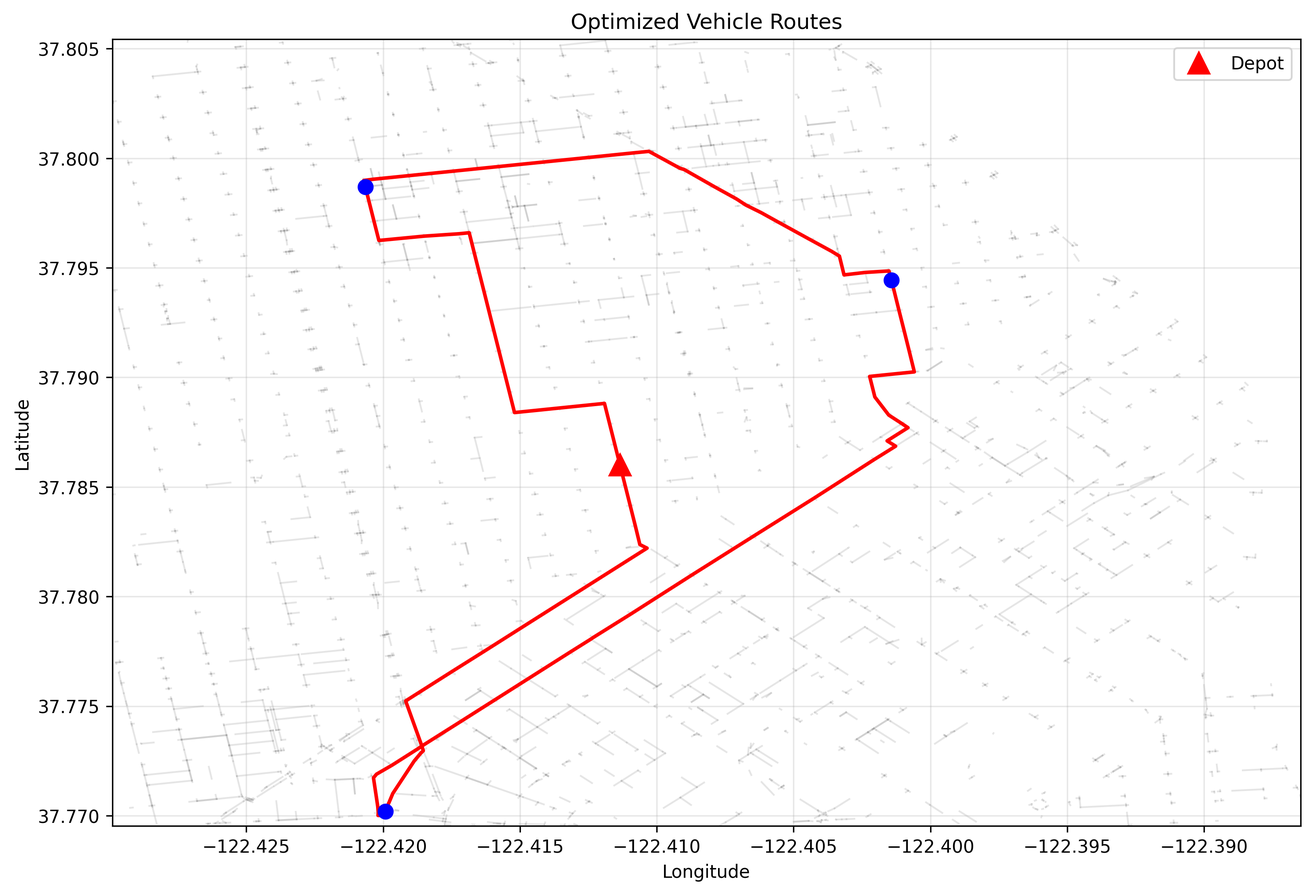
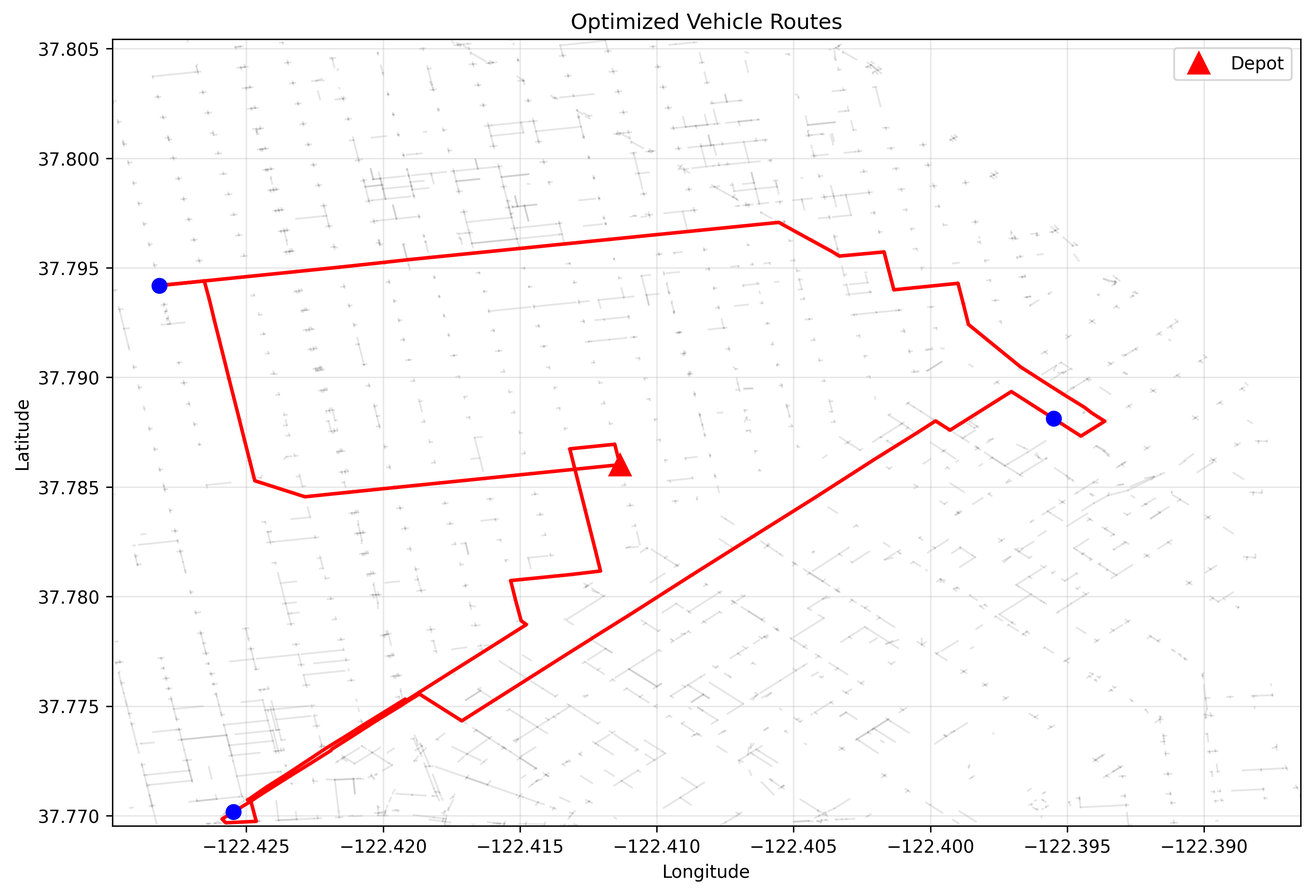
Agent query: I've added a size limit check that will prevent trying to optimize routes with too many cities. Could you try optimizing with 6 cities again and check if you get a clearer error message now?
Update map visualization for PennyLane's 4-city routing solution to fix out-of-bounds error.

Screenshot: https://storage.googleapis.com/screenshot-production-us-central1/6fde93e7-eeec-4fb5-847b-971d50fc858f/d8f96015-f70e-4ba3-b92e-c240aedd2373.jpg

diff --git a/static/route_map_pennylane_pure_4cities.html b/static/route_map_pennylane_pure_4cities.html
@@ -25,7 +25,7 @@
             <meta name="viewport" content="width=device-width,
                 initial-scale=1.0, maximum-scale=1.0, user-scalable=no" />
             <style>
-                #map_e8177952be6c29e3572268d04927c272 {
+                #map_212a3574ef8ac53af73a3a36afb0f014 {
                     position: relative;
                     width: 100.0%;
                     height: 100.0%;
@@ -52,14 +52,14 @@
                     <p style="margin-bottom:5px;"><strong>Routes:</strong></p>
             <p style="margin:5px 0;"><i style="background: #FF0000;width:20px;height:3px;display:inline-block;margin-right:5px;vertical-align:middle;"></i> Route 1</p></div>
     
-            <div class="folium-map" id="map_e8177952be6c29e3572268d04927c272" ></div>
+            <div class="folium-map" id="map_212a3574ef8ac53af73a3a36afb0f014" ></div>
         
 </body>
 <script>
     
     
-            var map_e8177952be6c29e3572268d04927c272 = L.map(
-                "map_e8177952be6c29e3572268d04927c272",
+            var map_212a3574ef8ac53af73a3a36afb0f014 = L.map(
+                "map_212a3574ef8ac53af73a3a36afb0f014",
                 {
                     center: [37.78572156920716, -122.41076516250756],
                     crs: L.CRS.EPSG3857,
@@ -76,7 +76,7 @@
 
         
     
-            var tile_layer_f0c54275cc33595e8e0a98439c3397c8 = L.tileLayer(
+            var tile_layer_e7295bc18a0fb45156e47c578f2490d5 = L.tileLayer(
                 "https://{s}.basemaps.cartocdn.com/light_all/{z}/{x}/{y}{r}.png",
                 {
   "minZoom": 0,
@@ -93,33 +93,33 @@
             );
         
     
-            tile_layer_f0c54275cc33595e8e0a98439c3397c8.addTo(map_e8177952be6c29e3572268d04927c272);
+            tile_layer_e7295bc18a0fb45156e47c578f2490d5.addTo(map_212a3574ef8ac53af73a3a36afb0f014);
         
     
-            var poly_line_offset_6a8737e453ada0f77b028d36adf25560 = L.polyline(
-                [[-122.41135, 37.78602], [-122.41136, 37.7861], [-122.41142, 37.78636], [-122.41145, 37.78651], [-122.41152, 37.78687], [-122.41154, 37.78695], [-122.41155, 37.78703], [-122.41159, 37.78722], [-122.41166, 37.78757], [-122.41171, 37.7878], [-122.41172, 37.78788], [-122.41174, 37.78796], [-122.41178, 37.78816], [-122.4118, 37.78826], [-122.41182, 37.78837], [-122.41185, 37.78848], [-122.4119, 37.78874], [-122.41191, 37.78881], [-122.41193, 37.78889], [-122.41208, 37.78967], [-122.4121, 37.78974], [-122.41212, 37.78982], [-122.41218, 37.79012], [-122.4122, 37.79026], [-122.41222, 37.79035], [-122.41225, 37.7905], [-122.41227, 37.7906], [-122.41229, 37.79068], [-122.4123, 37.79076], [-122.41232, 37.79082], [-122.41246, 37.79154], [-122.41248, 37.79162], [-122.41248, 37.79163], [-122.41248, 37.79165], [-122.4125, 37.79174], [-122.41258, 37.79213], [-122.41265, 37.79246], [-122.41265, 37.7925], [-122.41267, 37.79256], [-122.41276, 37.79255], [-122.41418, 37.79237], [-122.4142, 37.79236], [-122.41422, 37.79236], [-122.41431, 37.79235], [-122.41441, 37.79234], [-122.41513, 37.79224], [-122.41553, 37.79219], [-122.41581, 37.79216], [-122.41583, 37.79216], [-122.41587, 37.79215], [-122.41596, 37.79214], [-122.41605, 37.79213], [-122.41631, 37.79209], [-122.41745, 37.79195], [-122.41751, 37.79194], [-122.41758, 37.79193], [-122.4176, 37.79193], [-122.41761, 37.792], [-122.41768, 37.79235], [-122.41774, 37.79267], [-122.41776, 37.79274], [-122.41776, 37.79276], [-122.41777, 37.79281], [-122.41779, 37.79287], [-122.41779, 37.79289], [-122.41779, 37.7929], [-122.41789, 37.79336], [-122.41794, 37.79364], [-122.41795, 37.79369], [-122.41796, 37.79374], [-122.41797, 37.79375], [-122.41797, 37.79378], [-122.41804, 37.79412], [-122.41812, 37.79452], [-122.41812, 37.79457], [-122.41814, 37.79463], [-122.41819, 37.79488], [-122.41822, 37.79501], [-122.4183, 37.79542], [-122.41831, 37.79547], [-122.41832, 37.79553], [-122.41836, 37.79573], [-122.41845, 37.79619], [-122.41846, 37.79622], [-122.41849, 37.79638], [-122.4185, 37.7964], [-122.4185, 37.79641], [-122.41851, 37.79645], [-122.41852, 37.79651], [-122.41852, 37.79653], [-122.41867, 37.79727], [-122.41869, 37.79734], [-122.41871, 37.79743], [-122.41886, 37.79818], [-122.41886, 37.79821], [-122.41888, 37.79827], [-122.4189, 37.79827], [-122.41899, 37.79826], [-122.41901, 37.79826], [-122.41991, 37.79814], [-122.42041, 37.79808], [-122.42052, 37.79805], [-122.42054, 37.79814], [-122.42065, 37.7987]],
+            var poly_line_offset_069cd72a90c8fb3308fc8f19b823a134 = L.polyline(
+                [[37.78602, -122.41135], [37.78603, -122.41125], [37.7862, -122.40985], [37.78621, -122.4098], [37.78622, -122.4097], [37.78615, -122.40969], [37.78538, -122.40953], [37.78529, -122.40951], [37.78522, -122.4095], [37.78444, -122.40934], [37.78436, -122.40933], [37.78437, -122.40924], [37.78442, -122.40888], [37.78444, -122.40872], [37.78446, -122.40853], [37.78442, -122.40853], [37.78439, -122.40852], [37.78436, -122.40851], [37.78434, -122.40849], [37.78429, -122.40843], [37.78425, -122.40838], [37.78418, -122.40828], [37.7841, -122.40819], [37.78403, -122.40809], [37.78401, -122.40807], [37.784, -122.40806], [37.78391, -122.40795], [37.78387, -122.40789], [37.78366, -122.40764], [37.78353, -122.40748], [37.7833, -122.40719], [37.78316, -122.40703], [37.7829, -122.4067], [37.78285, -122.40665], [37.7828, -122.40659], [37.78273, -122.4065], [37.78266, -122.40659], [37.78261, -122.40664], [37.78235, -122.40698], [37.78219, -122.40718], [37.78212, -122.40727], [37.7821, -122.4073], [37.78154, -122.40801], [37.7812, -122.40844], [37.78104, -122.40864], [37.78098, -122.40872], [37.7809, -122.40881], [37.78077, -122.40898], [37.78062, -122.40917], [37.78028, -122.4096], [37.78008, -122.40984], [37.78007, -122.40985], [37.77991, -122.41006], [37.77948, -122.4106], [37.77928, -122.41085], [37.77924, -122.4109], [37.77921, -122.41094], [37.77914, -122.41103], [37.77898, -122.41123], [37.77844, -122.41192], [37.77813, -122.41232], [37.77805, -122.41242], [37.77794, -122.41256], [37.77759, -122.413], [37.77753, -122.41308], [37.77746, -122.41318], [37.77739, -122.41326], [37.77726, -122.41342], [37.77671, -122.41412], [37.77658, -122.41428], [37.77647, -122.41442], [37.77643, -122.41447], [37.7763, -122.41463], [37.77623, -122.41472], [37.77615, -122.41483], [37.77606, -122.41494], [37.77589, -122.41515], [37.7756, -122.41551], [37.77544, -122.41572], [37.77535, -122.41583], [37.77528, -122.41592], [37.7752, -122.41602], [37.77495, -122.41634], [37.77445, -122.41697], [37.77433, -122.41713], [37.77427, -122.41723], [37.77406, -122.41749], [37.77404, -122.41752], [37.77397, -122.4176], [37.77384, -122.41776], [37.77373, -122.4179], [37.77355, -122.41812], [37.77345, -122.41826], [37.77327, -122.41847], [37.77318, -122.41858], [37.77306, -122.41873], [37.77298, -122.41882], [37.77286, -122.41897], [37.77276, -122.41909], [37.7723, -122.41967], [37.77206, -122.42001], [37.77189, -122.42024], [37.77185, -122.42026], [37.77173, -122.42035], [37.77165, -122.42033], [37.77159, -122.42032], [37.77138, -122.4203], [37.77116, -122.42027], [37.77081, -122.42024], [37.77063, -122.42022], [37.77055, -122.42021], [37.77042, -122.4202], [37.77024, -122.42018], [37.77013, -122.42018], [37.77012, -122.4203], [37.77011, -122.42048], [37.77004, -122.42104], [37.76999, -122.42113], [37.76997, -122.42125], [37.76995, -122.42137], [37.76994, -122.42149], [37.76992, -122.4216], [37.76992, -122.42173], [37.76989, -122.42226], [37.76988, -122.42239], [37.76987, -122.42252], [37.76983, -122.42316], [37.76979, -122.42382], [37.76978, -122.4239], [37.76978, -122.42396], [37.76975, -122.42448], [37.76975, -122.42454], [37.76974, -122.42464], [37.76973, -122.42473], [37.76973, -122.42487], [37.76972, -122.42503], [37.76971, -122.42508], [37.7697, -122.42538], [37.76969, -122.42551], [37.76968, -122.42558], [37.76967, -122.42575], [37.76975, -122.42586], [37.76977, -122.42588], [37.76979, -122.42589], [37.76984, -122.42589], [37.77017, -122.42547]],
                 {"bubblingMouseEvents": true, "color": "#FF0000", "dashArray": null, "dashOffset": null, "fill": false, "fillColor": "#FF0000", "fillOpacity": 0.2, "fillRule": "evenodd", "lineCap": "round", "lineJoin": "round", "noClip": false, "offset": 0, "opacity": 0.8, "smoothFactor": 1.0, "stroke": true, "weight": 4}
-            ).addTo(map_e8177952be6c29e3572268d04927c272);
+            ).addTo(map_212a3574ef8ac53af73a3a36afb0f014);
         
     
-        var popup_232fe1f608e51e0bca0b9edfec87bc0c = L.popup({
+        var popup_1f1a7eef6031719a3d1f6583a1cc1002 = L.popup({
   "maxWidth": "100%",
 });
 
         
             
-                var html_4008ae763b676568d004d90eed4c8847 = $(`<div id="html_4008ae763b676568d004d90eed4c8847" style="width: 100.0%; height: 100.0%;">Route 1: Node 1580501206 → 65291974</div>`)[0];
-                popup_232fe1f608e51e0bca0b9edfec87bc0c.setContent(html_4008ae763b676568d004d90eed4c8847);
+                var html_3904b444d03f82556a09d9ef86a26e05 = $(`<div id="html_3904b444d03f82556a09d9ef86a26e05" style="width: 100.0%; height: 100.0%;">Route 1: Node 1580501206 → 1723563950</div>`)[0];
+                popup_1f1a7eef6031719a3d1f6583a1cc1002.setContent(html_3904b444d03f82556a09d9ef86a26e05);
             
         
 
-        poly_line_offset_6a8737e453ada0f77b028d36adf25560.bindPopup(popup_232fe1f608e51e0bca0b9edfec87bc0c)
+        poly_line_offset_069cd72a90c8fb3308fc8f19b823a134.bindPopup(popup_1f1a7eef6031719a3d1f6583a1cc1002)
         ;
 
         
     
     
-            poly_line_offset_6a8737e453ada0f77b028d36adf25560.setText(
+            poly_line_offset_069cd72a90c8fb3308fc8f19b823a134.setText(
                 "\u2794",
                 {
   "repeat": true,
@@ -135,14 +135,14 @@
             );
         
     
-            var marker_4158b859bcae22248c0754cadfbb137e = L.marker(
-                [-122.41135, 37.78602],
+            var marker_cb9a4d58c9189d6bc5cd25ad5adfb154 = L.marker(
+                [37.78602, -122.41135],
                 {
 }
-            ).addTo(map_e8177952be6c29e3572268d04927c272);
+            ).addTo(map_212a3574ef8ac53af73a3a36afb0f014);
         
     
-            var icon_8acead6a902341feeb2b606eea684560 = L.AwesomeMarkers.icon(
+            var icon_d6e0c0f271658b17ec77b31f7e8e26e9 = L.AwesomeMarkers.icon(
                 {
   "markerColor": "red",
   "iconColor": "white",
@@ -151,50 +151,50 @@
   "extraClasses": "fa-rotate-0",
 }
             );
-            marker_4158b859bcae22248c0754cadfbb137e.setIcon(icon_8acead6a902341feeb2b606eea684560);
+            marker_cb9a4d58c9189d6bc5cd25ad5adfb154.setIcon(icon_d6e0c0f271658b17ec77b31f7e8e26e9);
         
     
-        var popup_be280c5ed85f0363658b4f7998baaeec = L.popup({
+        var popup_1c5c451ec2061c532a151c9645903b36 = L.popup({
   "maxWidth": "100%",
 });
 
         
             
-                var html_d4c27133eada1aefed908237ef362fad = $(`<div id="html_d4c27133eada1aefed908237ef362fad" style="width: 100.0%; height: 100.0%;">Depot (Start)</div>`)[0];
-                popup_be280c5ed85f0363658b4f7998baaeec.setContent(html_d4c27133eada1aefed908237ef362fad);
+                var html_54a8f5db6bda0318a6019a9453a56f09 = $(`<div id="html_54a8f5db6bda0318a6019a9453a56f09" style="width: 100.0%; height: 100.0%;">Depot (Start)</div>`)[0];
+                popup_1c5c451ec2061c532a151c9645903b36.setContent(html_54a8f5db6bda0318a6019a9453a56f09);
             
         
 
-        marker_4158b859bcae22248c0754cadfbb137e.bindPopup(popup_be280c5ed85f0363658b4f7998baaeec)
+        marker_cb9a4d58c9189d6bc5cd25ad5adfb154.bindPopup(popup_1c5c451ec2061c532a151c9645903b36)
         ;
 
         
     
     
-            var poly_line_offset_65ef7cbba18407d5449b13304e326df2 = L.polyline(
-                [[-122.42065, 37.7987], [-122.42065, 37.7987], [-122.42054, 37.79814], [-122.42052, 37.79805], [-122.42051, 37.79797], [-122.42035, 37.79721], [-122.42033, 37.79712], [-122.42032, 37.79704], [-122.42016, 37.79627], [-122.42016, 37.79625], [-122.42014, 37.79614], [-122.42012, 37.79606], [-122.42003, 37.79607], [-122.41949, 37.79613], [-122.41784, 37.79633], [-122.41127, 37.79719], [-122.41109, 37.79722], [-122.41093, 37.79725], [-122.41071, 37.79729], [-122.41056, 37.79732], [-122.41038, 37.79735], [-122.41028, 37.79741], [-122.41017, 37.79743], [-122.40972, 37.79749], [-122.40905, 37.79758], [-122.40875, 37.79761], [-122.40863, 37.79763], [-122.40853, 37.79764], [-122.40832, 37.79767], [-122.40787, 37.79772], [-122.40775, 37.79774], [-122.40735, 37.79779], [-122.40712, 37.79781], [-122.40703, 37.79782], [-122.40697, 37.79783], [-122.40685, 37.79785], [-122.40674, 37.79786], [-122.40663, 37.79788], [-122.4065, 37.79789], [-122.40633, 37.79792], [-122.40625, 37.79792], [-122.40593, 37.79797], [-122.40564, 37.798], [-122.4055, 37.79802], [-122.40541, 37.79803], [-122.40502, 37.79808], [-122.4047, 37.79812], [-122.40434, 37.79817], [-122.40401, 37.79821], [-122.40397, 37.79822], [-122.40388, 37.79823], [-122.40379, 37.79824], [-122.40354, 37.79827], [-122.40326, 37.79831], [-122.40309, 37.79833], [-122.40243, 37.79841], [-122.40236, 37.79842], [-122.40225, 37.79844], [-122.40222, 37.79835], [-122.40218, 37.79814], [-122.40213, 37.79788], [-122.4021, 37.79777], [-122.40207, 37.79758], [-122.40205, 37.79751], [-122.40204, 37.79746], [-122.40201, 37.79733], [-122.40196, 37.79707], [-122.40193, 37.79689], [-122.40189, 37.7967], [-122.40188, 37.79663], [-122.40187, 37.79658], [-122.40185, 37.79648], [-122.40174, 37.79595], [-122.40171, 37.79582], [-122.40169, 37.79573], [-122.40168, 37.79565], [-122.40161, 37.7953], [-122.4016, 37.79524], [-122.40156, 37.79505], [-122.40153, 37.79494], [-122.40152, 37.79486], [-122.4015, 37.79477], [-122.40148, 37.7947], [-122.40146, 37.7946], [-122.40145, 37.79454], [-122.40143, 37.79443]],
+            var poly_line_offset_eb3ce86882691986ef1e458bd55bc897 = L.polyline(
+                [[37.77017, -122.42547], [37.77017, -122.42547], [37.77032, -122.42534], [37.77038, -122.42528], [37.77057, -122.42504], [37.77062, -122.42498], [37.77069, -122.42489], [37.77075, -122.42482], [37.77079, -122.42475], [37.77081, -122.42472], [37.77087, -122.42459], [37.77133, -122.42401], [37.77135, -122.42398], [37.77154, -122.42375], [37.77169, -122.42355], [37.7717, -122.42353], [37.77173, -122.4235], [37.7718, -122.42341], [37.77187, -122.42333], [37.77193, -122.42325], [37.77195, -122.42321], [37.77209, -122.42304], [37.77226, -122.42281], [37.7724, -122.42264], [37.77252, -122.42245], [37.77277, -122.42213], [37.7729, -122.42196], [37.77296, -122.42192], [37.77302, -122.42188], [37.77303, -122.42187], [37.77309, -122.4218], [37.77316, -122.42172], [37.77339, -122.42143], [37.77354, -122.42124], [37.77395, -122.42073], [37.774, -122.42064], [37.77405, -122.42056], [37.77407, -122.42054], [37.77411, -122.4205], [37.77426, -122.42033], [37.77434, -122.42024], [37.77441, -122.42014], [37.77466, -122.4198], [37.77486, -122.41955], [37.7749, -122.4195], [37.77493, -122.41947], [37.77503, -122.41934], [37.7751, -122.41925], [37.77518, -122.41916], [37.77525, -122.41906], [37.77547, -122.41878], [37.7755, -122.41875], [37.77555, -122.41868], [37.77551, -122.41862], [37.77548, -122.41859], [37.77546, -122.41855], [37.77538, -122.41845], [37.7753, -122.41835], [37.77526, -122.4183], [37.77522, -122.41825], [37.77515, -122.41816], [37.77495, -122.41791], [37.7749, -122.41785], [37.77462, -122.41749], [37.77458, -122.41744], [37.77455, -122.4174], [37.77433, -122.41713], [37.77445, -122.41697], [37.77495, -122.41634], [37.7752, -122.41602], [37.77528, -122.41592], [37.77535, -122.41583], [37.77544, -122.41572], [37.7756, -122.41551], [37.77589, -122.41515], [37.77606, -122.41494], [37.77615, -122.41483], [37.77623, -122.41472], [37.7763, -122.41463], [37.77643, -122.41447], [37.77647, -122.41442], [37.77658, -122.41428], [37.77671, -122.41412], [37.77726, -122.41342], [37.77739, -122.41326], [37.77746, -122.41318], [37.77753, -122.41308], [37.77759, -122.413], [37.77794, -122.41256], [37.77805, -122.41242], [37.77813, -122.41232], [37.77844, -122.41192], [37.77898, -122.41123], [37.77914, -122.41103], [37.77921, -122.41094], [37.77924, -122.4109], [37.77928, -122.41085], [37.77948, -122.4106], [37.77991, -122.41006], [37.78007, -122.40985], [37.78008, -122.40984], [37.78028, -122.4096], [37.78062, -122.40917], [37.78077, -122.40898], [37.7809, -122.40881], [37.78098, -122.40872], [37.78104, -122.40864], [37.7812, -122.40844], [37.78154, -122.40801], [37.7821, -122.4073], [37.78212, -122.40727], [37.78219, -122.40718], [37.78235, -122.40698], [37.78261, -122.40664], [37.78266, -122.40659], [37.78273, -122.4065], [37.7828, -122.40641], [37.78289, -122.40629], [37.78309, -122.40604], [37.78323, -122.40586], [37.78356, -122.40544], [37.78363, -122.40534], [37.784, -122.40487], [37.78431, -122.40447], [37.7844, -122.40436], [37.78448, -122.40426], [37.78453, -122.40414], [37.78492, -122.40365], [37.78503, -122.4035], [37.78507, -122.40345], [37.78527, -122.4032], [37.78566, -122.40271], [37.78615, -122.4021], [37.78626, -122.40204], [37.78633, -122.40196], [37.7865, -122.40174], [37.78659, -122.40162], [37.78686, -122.40127], [37.7874, -122.40059], [37.78746, -122.40051], [37.7875, -122.40045], [37.78771, -122.40019], [37.7879, -122.39994], [37.78794, -122.3999], [37.78796, -122.39988], [37.78801, -122.39981], [37.78805, -122.39976], [37.78808, -122.39973], [37.78837, -122.39937], [37.78899, -122.39858], [37.78919, -122.39833], [37.7892, -122.39831], [37.78971, -122.39767], [37.78978, -122.39758], [37.78972, -122.3975], [37.78969, -122.39747], [37.78954, -122.39727], [37.78946, -122.39718], [37.78946, -122.39717], [37.78941, -122.39712], [37.78935, -122.39704], [37.78932, -122.39701], [37.78932, -122.397], [37.78901, -122.39662], [37.789, -122.39661], [37.78898, -122.39658], [37.78885, -122.39641], [37.78875, -122.39629], [37.78862, -122.39613], [37.78854, -122.39603], [37.78848, -122.39595], [37.78812, -122.3955]],
                 {"bubblingMouseEvents": true, "color": "#FF0000", "dashArray": null, "dashOffset": null, "fill": false, "fillColor": "#FF0000", "fillOpacity": 0.2, "fillRule": "evenodd", "lineCap": "round", "lineJoin": "round", "noClip": false, "offset": 0, "opacity": 0.8, "smoothFactor": 1.0, "stroke": true, "weight": 4}
-            ).addTo(map_e8177952be6c29e3572268d04927c272);
+            ).addTo(map_212a3574ef8ac53af73a3a36afb0f014);
         
     
-        var popup_cf12852437a2eef3b54bd3812b047646 = L.popup({
+        var popup_0f38a8122fdc427995bc80a0f41b848a = L.popup({
   "maxWidth": "100%",
 });
 
         
             
-                var html_8c68e255f267d8a67ee5d0ec7afc44b0 = $(`<div id="html_8c68e255f267d8a67ee5d0ec7afc44b0" style="width: 100.0%; height: 100.0%;">Route 1: Node 65291974 → 65356180</div>`)[0];
-                popup_cf12852437a2eef3b54bd3812b047646.setContent(html_8c68e255f267d8a67ee5d0ec7afc44b0);
+                var html_4df0601aac610a90a58874289bf037b9 = $(`<div id="html_4df0601aac610a90a58874289bf037b9" style="width: 100.0%; height: 100.0%;">Route 1: Node 1723563950 → 65334514</div>`)[0];
+                popup_0f38a8122fdc427995bc80a0f41b848a.setContent(html_4df0601aac610a90a58874289bf037b9);
             
         
 
-        poly_line_offset_65ef7cbba18407d5449b13304e326df2.bindPopup(popup_cf12852437a2eef3b54bd3812b047646)
+        poly_line_offset_eb3ce86882691986ef1e458bd55bc897.bindPopup(popup_0f38a8122fdc427995bc80a0f41b848a)
         ;
 
         
     
     
-            poly_line_offset_65ef7cbba18407d5449b13304e326df2.setText(
+            poly_line_offset_eb3ce86882691986ef1e458bd55bc897.setText(
                 "\u2794",
                 {
   "repeat": true,
@@ -210,53 +210,53 @@
             );
         
     
-            var circle_marker_6ecc44ce1d9cce763b3aa85df79dfc66 = L.circleMarker(
-                [-122.42065, 37.7987],
+            var circle_marker_a5ee98b2687661c7c6ac584d79669d64 = L.circleMarker(
+                [37.77017, -122.42547],
                 {"bubblingMouseEvents": true, "color": "#FF0000", "dashArray": null, "dashOffset": null, "fill": true, "fillColor": "#FF0000", "fillOpacity": 0.7, "fillRule": "evenodd", "lineCap": "round", "lineJoin": "round", "opacity": 1.0, "radius": 8, "stroke": true, "weight": 3}
-            ).addTo(map_e8177952be6c29e3572268d04927c272);
+            ).addTo(map_212a3574ef8ac53af73a3a36afb0f014);
         
     
-        var popup_98dfda1a30ec1bbe0ad935a56cc3b545 = L.popup({
+        var popup_d2c00ea115b612d5ed7de21b14adfc0a = L.popup({
   "maxWidth": "100%",
 });
 
         
             
-                var html_985f539fe15e46534b26e5d816f04dd1 = $(`<div id="html_985f539fe15e46534b26e5d816f04dd1" style="width: 100.0%; height: 100.0%;">Stop 1 (Route 1)</div>`)[0];
-                popup_98dfda1a30ec1bbe0ad935a56cc3b545.setContent(html_985f539fe15e46534b26e5d816f04dd1);
+                var html_20b586687c6415699a557f1b653d5d5d = $(`<div id="html_20b586687c6415699a557f1b653d5d5d" style="width: 100.0%; height: 100.0%;">Stop 1 (Route 1)</div>`)[0];
+                popup_d2c00ea115b612d5ed7de21b14adfc0a.setContent(html_20b586687c6415699a557f1b653d5d5d);
             
         
 
-        circle_marker_6ecc44ce1d9cce763b3aa85df79dfc66.bindPopup(popup_98dfda1a30ec1bbe0ad935a56cc3b545)
+        circle_marker_a5ee98b2687661c7c6ac584d79669d64.bindPopup(popup_d2c00ea115b612d5ed7de21b14adfc0a)
         ;
 
         
     
     
-            var poly_line_offset_26481a695aca6e3104eabf349a22eefc = L.polyline(
-                [[-122.40143, 37.79443], [-122.40143, 37.79443], [-122.40142, 37.79437], [-122.40135, 37.79406], [-122.40134, 37.794], [-122.40145, 37.79398], [-122.40165, 37.79396], [-122.40216, 37.79389], [-122.4022, 37.79389], [-122.40289, 37.7938], [-122.40298, 37.79379], [-122.40297, 37.79374], [-122.4029, 37.79342], [-122.40281, 37.79296], [-122.4028, 37.79288], [-122.40279, 37.79286], [-122.40279, 37.79285], [-122.40277, 37.79276], [-122.40269, 37.79238], [-122.40262, 37.79202], [-122.40262, 37.792], [-122.4026, 37.79191], [-122.40258, 37.79183], [-122.4025, 37.7914], [-122.40245, 37.79117], [-122.40243, 37.79107], [-122.40241, 37.79098], [-122.4024, 37.79091], [-122.40237, 37.79077], [-122.40231, 37.79048], [-122.40224, 37.79012], [-122.40222, 37.79004], [-122.40221, 37.78997], [-122.40211, 37.78947], [-122.40209, 37.78941], [-122.40205, 37.78918], [-122.40203, 37.78911], [-122.40201, 37.78903], [-122.40201, 37.78901], [-122.402, 37.78899], [-122.40199, 37.78896], [-122.40199, 37.7889], [-122.40199, 37.78885], [-122.40199, 37.78882], [-122.40199, 37.78879], [-122.40199, 37.78874], [-122.40199, 37.7887], [-122.40198, 37.78866], [-122.40195, 37.78863], [-122.40152, 37.78828], [-122.40104, 37.78789], [-122.40082, 37.78771], [-122.40061, 37.78754], [-122.40051, 37.78746], [-122.40059, 37.7874], [-122.40127, 37.78686], [-122.40162, 37.78659], [-122.40174, 37.7865], [-122.40196, 37.78633], [-122.40204, 37.78626], [-122.40215, 37.7862], [-122.40229, 37.7861], [-122.40249, 37.78593], [-122.40255, 37.78589], [-122.40337, 37.78524], [-122.40347, 37.78517], [-122.40352, 37.78513], [-122.40421, 37.78458], [-122.40426, 37.78448], [-122.40436, 37.7844], [-122.40447, 37.78431], [-122.40487, 37.784], [-122.40534, 37.78363], [-122.40544, 37.78356], [-122.40586, 37.78323], [-122.40604, 37.78309], [-122.40629, 37.78289], [-122.40641, 37.7828], [-122.4065, 37.78273], [-122.40659, 37.78266], [-122.40664, 37.78261], [-122.40698, 37.78235], [-122.40718, 37.78219], [-122.40727, 37.78212], [-122.4073, 37.7821], [-122.40801, 37.78154], [-122.40844, 37.7812], [-122.40864, 37.78104], [-122.40872, 37.78098], [-122.40881, 37.7809], [-122.40898, 37.78077], [-122.40917, 37.78062], [-122.4096, 37.78028], [-122.40984, 37.78008], [-122.40985, 37.78007], [-122.41006, 37.77991], [-122.4106, 37.77948], [-122.41085, 37.77928], [-122.4109, 37.77924], [-122.41094, 37.77921], [-122.41103, 37.77914], [-122.41123, 37.77898], [-122.41192, 37.77844], [-122.41232, 37.77813], [-122.41242, 37.77805], [-122.41256, 37.77794], [-122.413, 37.77759], [-122.41308, 37.77753], [-122.41318, 37.77746], [-122.41326, 37.77739], [-122.41342, 37.77726], [-122.41412, 37.77671], [-122.41428, 37.77658], [-122.41442, 37.77647], [-122.41447, 37.77643], [-122.41463, 37.7763], [-122.41472, 37.77623], [-122.41483, 37.77615], [-122.41494, 37.77606], [-122.41515, 37.77589], [-122.41551, 37.7756], [-122.41572, 37.77544], [-122.41583, 37.77535], [-122.41592, 37.77528], [-122.41602, 37.7752], [-122.41634, 37.77495], [-122.41697, 37.77445], [-122.41713, 37.77433], [-122.41723, 37.77427], [-122.41749, 37.77406], [-122.41752, 37.77404], [-122.4176, 37.77397], [-122.41776, 37.77384], [-122.4179, 37.77373], [-122.41812, 37.77355], [-122.41826, 37.77345], [-122.41847, 37.77327], [-122.41858, 37.77318], [-122.41873, 37.77306], [-122.41882, 37.77298], [-122.41897, 37.77286], [-122.41909, 37.77276], [-122.41967, 37.7723], [-122.42001, 37.77206], [-122.42024, 37.77189], [-122.42026, 37.77185], [-122.42035, 37.77173], [-122.42033, 37.77165], [-122.42032, 37.77159], [-122.4203, 37.77138], [-122.42027, 37.77116], [-122.42024, 37.77081], [-122.42022, 37.77063], [-122.42021, 37.77055], [-122.4202, 37.77042], [-122.42018, 37.77024], [-122.42018, 37.77013], [-122.42019, 37.77001], [-122.42019, 37.76992], [-122.42014, 37.76933], [-122.42013, 37.76928], [-122.42012, 37.76924], [-122.42008, 37.76918], [-122.42005, 37.76924], [-122.42004, 37.76928], [-122.42003, 37.76933], [-122.42003, 37.76943], [-122.42003, 37.76953], [-122.42001, 37.76966], [-122.42, 37.76979], [-122.41999, 37.76992], [-122.41997, 37.77001], [-122.41993, 37.77011], [-122.41991, 37.7702]],
+            var poly_line_offset_bde3082e8fa0054c827c3ea69c936ec1 = L.polyline(
+                [[37.78812, -122.3955], [37.78812, -122.3955], [37.78805, -122.39542], [37.78772, -122.39501], [37.78739, -122.39459], [37.78732, -122.3945], [37.78739, -122.39442], [37.78767, -122.39406], [37.78771, -122.394], [37.78793, -122.39373], [37.788, -122.39363], [37.78808, -122.39373], [37.78838, -122.3941], [37.78846, -122.39415], [37.78863, -122.39437], [37.78866, -122.3944], [37.78867, -122.39442], [37.78869, -122.39444], [37.78879, -122.39457], [37.78901, -122.39485], [37.78917, -122.39507], [37.78923, -122.39515], [37.78927, -122.3952], [37.78931, -122.39524], [37.78959, -122.3956], [37.78962, -122.39564], [37.78965, -122.39568], [37.7897, -122.39573], [37.78974, -122.39578], [37.78981, -122.39587], [37.78986, -122.39594], [37.78992, -122.39601], [37.78999, -122.3961], [37.79003, -122.39615], [37.79007, -122.39619], [37.79015, -122.3963], [37.79018, -122.39634], [37.79037, -122.39657], [37.7904, -122.39661], [37.79047, -122.3967], [37.79054, -122.39679], [37.79071, -122.39699], [37.79092, -122.39726], [37.79106, -122.39744], [37.79114, -122.39754], [37.7912, -122.39759], [37.79166, -122.39817], [37.79172, -122.39828], [37.79173, -122.3983], [37.79174, -122.39832], [37.79178, -122.39838], [37.79182, -122.39845], [37.79185, -122.39848], [37.79188, -122.3985], [37.79202, -122.39853], [37.79234, -122.3986], [37.79241, -122.39861], [37.7925, -122.39863], [37.79268, -122.39866], [37.79287, -122.3987], [37.79327, -122.39878], [37.79336, -122.3988], [37.79337, -122.3988], [37.79338, -122.39881], [37.79347, -122.39882], [37.79385, -122.3989], [37.79424, -122.39898], [37.79429, -122.39899], [37.79428, -122.3991], [37.79416, -122.40007], [37.79414, -122.40016], [37.79413, -122.40027], [37.7941, -122.40054], [37.79401, -122.40124], [37.794, -122.40134], [37.79406, -122.40135], [37.79437, -122.40142], [37.79443, -122.40143], [37.79454, -122.40145], [37.7946, -122.40146], [37.7947, -122.40148], [37.79477, -122.4015], [37.79486, -122.40152], [37.79494, -122.40153], [37.79505, -122.40156], [37.79524, -122.4016], [37.7953, -122.40161], [37.79565, -122.40168], [37.79573, -122.40169], [37.79582, -122.40171], [37.79595, -122.40174], [37.79648, -122.40185], [37.79658, -122.40187], [37.79663, -122.40188], [37.7967, -122.40189], [37.79689, -122.40193], [37.79707, -122.40196], [37.79733, -122.40201], [37.79746, -122.40204], [37.79751, -122.40205], [37.79758, -122.40207], [37.79777, -122.4021], [37.79788, -122.40213], [37.79814, -122.40218], [37.79835, -122.40222], [37.79844, -122.40225], [37.79842, -122.40236], [37.79841, -122.40243], [37.79833, -122.40309], [37.79831, -122.40326], [37.79827, -122.40354], [37.79824, -122.40379], [37.79823, -122.40388], [37.79822, -122.40397], [37.79821, -122.40401], [37.79817, -122.40434], [37.79812, -122.4047], [37.79808, -122.40502], [37.79803, -122.40541], [37.79802, -122.4055], [37.798, -122.40564], [37.79797, -122.40593], [37.79792, -122.40625], [37.79792, -122.40633], [37.79789, -122.4065], [37.79788, -122.40663], [37.79786, -122.40674], [37.79785, -122.40685], [37.79783, -122.40697], [37.79782, -122.40703], [37.79781, -122.40712], [37.79779, -122.40735], [37.79774, -122.40775], [37.79772, -122.40787], [37.79767, -122.40832], [37.79764, -122.40853], [37.79763, -122.40863], [37.79761, -122.40875], [37.79758, -122.40905], [37.79749, -122.40972], [37.79743, -122.41017], [37.79741, -122.41028], [37.79745, -122.41041], [37.79737, -122.41076], [37.79732, -122.41096], [37.7973, -122.41105], [37.79729, -122.41113], [37.79727, -122.41129], [37.79641, -122.41785], [37.79621, -122.41951], [37.79615, -122.42004], [37.79614, -122.42014], [37.79613, -122.42024], [37.79608, -122.42099], [37.79605, -122.4212], [37.79603, -122.42135], [37.796, -122.42169], [37.79595, -122.42179], [37.79594, -122.42189], [37.7959, -122.42221], [37.79584, -122.42269], [37.79577, -122.42325], [37.79576, -122.42332], [37.79575, -122.42339], [37.79575, -122.42344], [37.79573, -122.42355], [37.79572, -122.42362], [37.79562, -122.4244], [37.79555, -122.42498], [37.79554, -122.42508], [37.79552, -122.42519], [37.79534, -122.42663], [37.79533, -122.42672], [37.79531, -122.42682], [37.79513, -122.42825], [37.79513, -122.42828], [37.79512, -122.42836], [37.79503, -122.42835], [37.795, -122.42834], [37.79429, -122.4282], [37.79419, -122.42818]],
                 {"bubblingMouseEvents": true, "color": "#FF0000", "dashArray": null, "dashOffset": null, "fill": false, "fillColor": "#FF0000", "fillOpacity": 0.2, "fillRule": "evenodd", "lineCap": "round", "lineJoin": "round", "noClip": false, "offset": 0, "opacity": 0.8, "smoothFactor": 1.0, "stroke": true, "weight": 4}
-            ).addTo(map_e8177952be6c29e3572268d04927c272);
+            ).addTo(map_212a3574ef8ac53af73a3a36afb0f014);
         
     
-        var popup_98b1297dd58e1b7a35c3889754183a67 = L.popup({
+        var popup_5b4e33399259d391ba381fad3dd692fe = L.popup({
   "maxWidth": "100%",
 });
 
         
             
-                var html_93e942d9cf13ab40cc4dedf7b413b39b = $(`<div id="html_93e942d9cf13ab40cc4dedf7b413b39b" style="width: 100.0%; height: 100.0%;">Route 1: Node 65356180 → 300515878</div>`)[0];
-                popup_98b1297dd58e1b7a35c3889754183a67.setContent(html_93e942d9cf13ab40cc4dedf7b413b39b);
+                var html_e0f27b4d96da208e00a18cb482c2389d = $(`<div id="html_e0f27b4d96da208e00a18cb482c2389d" style="width: 100.0%; height: 100.0%;">Route 1: Node 65334514 → 65351384</div>`)[0];
+                popup_5b4e33399259d391ba381fad3dd692fe.setContent(html_e0f27b4d96da208e00a18cb482c2389d);
             
         
 
-        poly_line_offset_26481a695aca6e3104eabf349a22eefc.bindPopup(popup_98b1297dd58e1b7a35c3889754183a67)
+        poly_line_offset_bde3082e8fa0054c827c3ea69c936ec1.bindPopup(popup_5b4e33399259d391ba381fad3dd692fe)
         ;
 
         
     
     
-            poly_line_offset_26481a695aca6e3104eabf349a22eefc.setText(
+            poly_line_offset_bde3082e8fa0054c827c3ea69c936ec1.setText(
                 "\u2794",
                 {
   "repeat": true,
@@ -272,53 +272,53 @@
             );
         
     
-            var circle_marker_158010769ce67601df05724f7beab272 = L.circleMarker(
-                [-122.40143, 37.79443],
+            var circle_marker_c8f72a8254abb8f94dd3cfd9a1ffa322 = L.circleMarker(
+                [37.78812, -122.3955],
                 {"bubblingMouseEvents": true, "color": "#FF0000", "dashArray": null, "dashOffset": null, "fill": true, "fillColor": "#FF0000", "fillOpacity": 0.7, "fillRule": "evenodd", "lineCap": "round", "lineJoin": "round", "opacity": 1.0, "radius": 8, "stroke": true, "weight": 3}
-            ).addTo(map_e8177952be6c29e3572268d04927c272);
+            ).addTo(map_212a3574ef8ac53af73a3a36afb0f014);
         
     
-        var popup_d62903bbac993fe4e0fc69813d9efb8e = L.popup({
+        var popup_29b44f3054c0a6611551d9e9a08d36df = L.popup({
   "maxWidth": "100%",
 });
 
         
             
-                var html_427e69e57ea2d9e865af7cd25021f334 = $(`<div id="html_427e69e57ea2d9e865af7cd25021f334" style="width: 100.0%; height: 100.0%;">Stop 2 (Route 1)</div>`)[0];
-                popup_d62903bbac993fe4e0fc69813d9efb8e.setContent(html_427e69e57ea2d9e865af7cd25021f334);
+                var html_33416185c14946ff4d8daa669cbb3baa = $(`<div id="html_33416185c14946ff4d8daa669cbb3baa" style="width: 100.0%; height: 100.0%;">Stop 2 (Route 1)</div>`)[0];
+                popup_29b44f3054c0a6611551d9e9a08d36df.setContent(html_33416185c14946ff4d8daa669cbb3baa);
             
         
 
-        circle_marker_158010769ce67601df05724f7beab272.bindPopup(popup_d62903bbac993fe4e0fc69813d9efb8e)
+        circle_marker_c8f72a8254abb8f94dd3cfd9a1ffa322.bindPopup(popup_29b44f3054c0a6611551d9e9a08d36df)
         ;
 
         
     
     
-            var poly_line_offset_dd9b4aa4fce75e34c7be605579d69f31 = L.polyline(
-                [[-122.41991, 37.7702], [-122.41989, 37.77028], [-122.41986, 37.77039], [-122.41984, 37.77046], [-122.41982, 37.77052], [-122.41977, 37.77064], [-122.41971, 37.77083], [-122.41967, 37.77093], [-122.41965, 37.77101], [-122.41958, 37.77118], [-122.41951, 37.77134], [-122.41944, 37.77151], [-122.41941, 37.77156], [-122.41935, 37.77169], [-122.41926, 37.77187], [-122.41921, 37.77197], [-122.41917, 37.77204], [-122.41913, 37.7721], [-122.41902, 37.77227], [-122.41898, 37.77232], [-122.41887, 37.77249], [-122.41873, 37.7727], [-122.41863, 37.77284], [-122.41853, 37.77296], [-122.41843, 37.77307], [-122.41833, 37.77318], [-122.41805, 37.77348], [-122.41776, 37.77374], [-122.41765, 37.77384], [-122.41743, 37.77402], [-122.41734, 37.7741], [-122.41727, 37.77415], [-122.41725, 37.77417], [-122.41718, 37.77423], [-122.41713, 37.77433], [-122.41697, 37.77445], [-122.41634, 37.77495], [-122.41602, 37.7752], [-122.41592, 37.77528], [-122.41583, 37.77535], [-122.41572, 37.77544], [-122.41551, 37.7756], [-122.41515, 37.77589], [-122.41494, 37.77606], [-122.41483, 37.77615], [-122.41472, 37.77623], [-122.41463, 37.7763], [-122.41447, 37.77643], [-122.41442, 37.77647], [-122.41428, 37.77658], [-122.41412, 37.77671], [-122.41342, 37.77726], [-122.41326, 37.77739], [-122.41318, 37.77746], [-122.41308, 37.77753], [-122.413, 37.77759], [-122.41256, 37.77794], [-122.41242, 37.77805], [-122.41232, 37.77813], [-122.41192, 37.77844], [-122.41123, 37.77898], [-122.41103, 37.77914], [-122.41094, 37.77921], [-122.4109, 37.77924], [-122.41085, 37.77928], [-122.4106, 37.77948], [-122.41006, 37.77991], [-122.40985, 37.78007], [-122.40984, 37.78008], [-122.4096, 37.78028], [-122.40917, 37.78062], [-122.40898, 37.78077], [-122.40881, 37.7809], [-122.40872, 37.78098], [-122.40864, 37.78104], [-122.40844, 37.7812], [-122.40801, 37.78154], [-122.40792, 37.78146], [-122.40785, 37.78141], [-122.40792, 37.78146], [-122.40801, 37.78154], [-122.40844, 37.7812], [-122.40864, 37.78104], [-122.40872, 37.78098], [-122.40881, 37.78105], [-122.40923, 37.78139], [-122.40926, 37.78141], [-122.4093, 37.78144], [-122.4097, 37.78176], [-122.41019, 37.78215], [-122.41034, 37.7822], [-122.41036, 37.78221], [-122.41037, 37.78222], [-122.41051, 37.78229], [-122.41057, 37.78232], [-122.4106, 37.78234], [-122.41062, 37.78237], [-122.41073, 37.78293], [-122.41074, 37.78302], [-122.41077, 37.78315], [-122.41078, 37.78322], [-122.4108, 37.7833], [-122.41086, 37.78363], [-122.41088, 37.78369], [-122.41096, 37.78408], [-122.41097, 37.78415], [-122.41099, 37.78424], [-122.4111, 37.78476], [-122.41115, 37.78501], [-122.41116, 37.78508], [-122.41118, 37.78516], [-122.41133, 37.78595], [-122.41135, 37.78602]],
+            var poly_line_offset_f8987b0e0d75c6d597a99a71b8ad6784 = L.polyline(
+                [[37.79419, -122.42818], [37.79421, -122.42806], [37.79439, -122.42663], [37.7944, -122.42654], [37.79433, -122.42652], [37.7936, -122.42636], [37.79353, -122.42635], [37.79345, -122.42633], [37.79272, -122.42619], [37.79265, -122.42618], [37.79257, -122.42616], [37.79188, -122.42602], [37.79185, -122.42602], [37.79177, -122.426], [37.79169, -122.42599], [37.79137, -122.42592], [37.79121, -122.42589], [37.79108, -122.42586], [37.79096, -122.42584], [37.79089, -122.42582], [37.79082, -122.42581], [37.79006, -122.42566], [37.78996, -122.42564], [37.78997, -122.42554], [37.79013, -122.42428], [37.79015, -122.42409], [37.79017, -122.42399], [37.79015, -122.42388], [37.79016, -122.42375], [37.79031, -122.42254], [37.79032, -122.42245], [37.79033, -122.42238], [37.79034, -122.4223], [37.79035, -122.42224], [37.79036, -122.42216], [37.79047, -122.42127], [37.79053, -122.42079], [37.79057, -122.42073], [37.79058, -122.4207], [37.7906, -122.42061], [37.79065, -122.42017], [37.79078, -122.41916], [37.79079, -122.41906], [37.79081, -122.41897], [37.79091, -122.41814], [37.79099, -122.41752], [37.791, -122.41741], [37.79101, -122.41731], [37.79109, -122.41672], [37.79112, -122.41647], [37.79116, -122.41612], [37.79119, -122.41588], [37.79121, -122.41577], [37.79122, -122.41568], [37.79141, -122.41424], [37.79142, -122.41412], [37.7914, -122.41412], [37.79133, -122.4141], [37.79131, -122.4141], [37.79115, -122.41407], [37.79105, -122.41405], [37.79057, -122.41395], [37.79055, -122.41395], [37.79047, -122.41393], [37.7904, -122.41392], [37.78962, -122.41376], [37.78954, -122.41374], [37.78947, -122.41373], [37.78874, -122.41358], [37.78869, -122.41357], [37.7886, -122.41356], [37.78853, -122.41354], [37.78796, -122.41342], [37.78779, -122.41339], [37.78775, -122.41338], [37.78767, -122.41337], [37.7876, -122.41335], [37.7874, -122.41331], [37.78706, -122.41324], [37.78688, -122.41321], [37.78682, -122.4132], [37.78674, -122.41318], [37.78667, -122.41317], [37.78589, -122.41301], [37.78581, -122.41299], [37.78582, -122.4129], [37.78591, -122.41217], [37.78591, -122.41215], [37.786, -122.41146], [37.78602, -122.41135]],
                 {"bubblingMouseEvents": true, "color": "#FF0000", "dashArray": null, "dashOffset": null, "fill": false, "fillColor": "#FF0000", "fillOpacity": 0.2, "fillRule": "evenodd", "lineCap": "round", "lineJoin": "round", "noClip": false, "offset": 0, "opacity": 0.8, "smoothFactor": 1.0, "stroke": true, "weight": 4}
-            ).addTo(map_e8177952be6c29e3572268d04927c272);
+            ).addTo(map_212a3574ef8ac53af73a3a36afb0f014);
         
     
-        var popup_c100a55567966327638ae58dba881913 = L.popup({
+        var popup_1ad9875ad62cf611d6656bd406964ef5 = L.popup({
   "maxWidth": "100%",
 });
 
         
             
-                var html_284c5b102f8499c776480932d6cb2d47 = $(`<div id="html_284c5b102f8499c776480932d6cb2d47" style="width: 100.0%; height: 100.0%;">Route 1: Node 300515878 → 1580501206</div>`)[0];
-                popup_c100a55567966327638ae58dba881913.setContent(html_284c5b102f8499c776480932d6cb2d47);
+                var html_531b23cd8c0d0cac5edbf747eedd0680 = $(`<div id="html_531b23cd8c0d0cac5edbf747eedd0680" style="width: 100.0%; height: 100.0%;">Route 1: Node 65351384 → 1580501206</div>`)[0];
+                popup_1ad9875ad62cf611d6656bd406964ef5.setContent(html_531b23cd8c0d0cac5edbf747eedd0680);
             
         
 
-        poly_line_offset_dd9b4aa4fce75e34c7be605579d69f31.bindPopup(popup_c100a55567966327638ae58dba881913)
+        poly_line_offset_f8987b0e0d75c6d597a99a71b8ad6784.bindPopup(popup_1ad9875ad62cf611d6656bd406964ef5)
         ;
 
         
     
     
-            poly_line_offset_dd9b4aa4fce75e34c7be605579d69f31.setText(
+            poly_line_offset_f8987b0e0d75c6d597a99a71b8ad6784.setText(
                 "\u2794",
                 {
   "repeat": true,
@@ -334,24 +334,24 @@
             );
         
     
-            var circle_marker_c18291a9d21aeb5206c1c2cf86735f49 = L.circleMarker(
-                [-122.41991, 37.7702],
+            var circle_marker_13299967ed6a85efed8c1856c917c64f = L.circleMarker(
+                [37.79419, -122.42818],
                 {"bubblingMouseEvents": true, "color": "#FF0000", "dashArray": null, "dashOffset": null, "fill": true, "fillColor": "#FF0000", "fillOpacity": 0.7, "fillRule": "evenodd", "lineCap": "round", "lineJoin": "round", "opacity": 1.0, "radius": 8, "stroke": true, "weight": 3}
-            ).addTo(map_e8177952be6c29e3572268d04927c272);
+            ).addTo(map_212a3574ef8ac53af73a3a36afb0f014);
         
     
-        var popup_c778279cfe1a6cc48e1d0b75cebbc127 = L.popup({
+        var popup_1ce76332211d72722ab834e400bfee3c = L.popup({
   "maxWidth": "100%",
 });
 
         
             
-                var html_057f19e02aa34449cf08eccb4eebffda = $(`<div id="html_057f19e02aa34449cf08eccb4eebffda" style="width: 100.0%; height: 100.0%;">Stop 3 (Route 1)</div>`)[0];
-                popup_c778279cfe1a6cc48e1d0b75cebbc127.setContent(html_057f19e02aa34449cf08eccb4eebffda);
+                var html_5add087708bb53377dad7b98f8a33a36 = $(`<div id="html_5add087708bb53377dad7b98f8a33a36" style="width: 100.0%; height: 100.0%;">Stop 3 (Route 1)</div>`)[0];
+                popup_1ce76332211d72722ab834e400bfee3c.setContent(html_5add087708bb53377dad7b98f8a33a36);
             
         
 
-        circle_marker_c18291a9d21aeb5206c1c2cf86735f49.bindPopup(popup_c778279cfe1a6cc48e1d0b75cebbc127)
+        circle_marker_13299967ed6a85efed8c1856c917c64f.bindPopup(popup_1ce76332211d72722ab834e400bfee3c)
         ;
 
         
